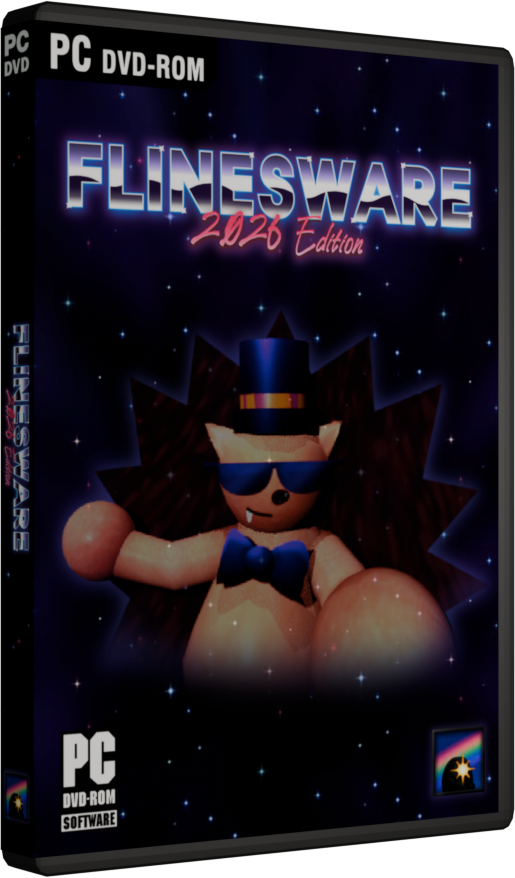
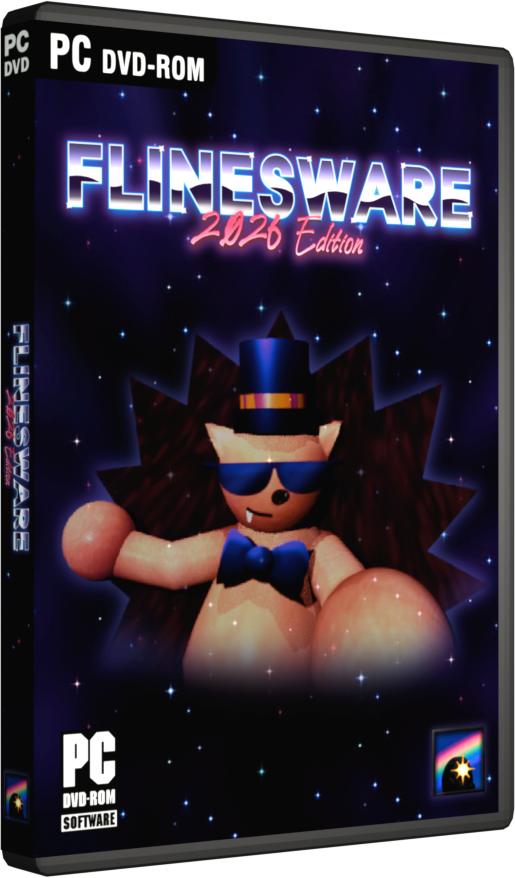
new blog WIP

diff --git a/blog/index.html b/blog/index.html
@@ -52,21 +52,20 @@
 			
 			.blog_img {
 				border: 2px solid #FFFFFF;
-				max-width: 350px;
+				max-width: 450px;
 			}
 			
 			.blog {
 				max-width: 500px;
 			}
 			
-			.flines_post {
-				padding-right: 12px;
-				padding-left: 12px;
-			}
-			
-			.faraway_post {
-				padding-right: 12px;
-				padding-left: 12px;
+			.unselectable {
+				-webkit-touch-callout: none;
+				-webkit-user-select: none;
+				-khtml-user-select: none;
+				-moz-user-select: none;
+				-ms-user-select: none;
+				user-select: none;
 			}
 		</style>
 	
@@ -198,12 +197,28 @@
 							<a href="/scripts/rss.xml"><button class="maya_button socials" style="margin: 16px; width: 300px">Add my RSS feed!</button></a>
 						</div>
 						
-						<hr class="solid" style="width: 62.5%; color: white; margin-top: 16px; margin-bottom: 16px;"><br>
-						<div id="funkyFeed" class="blog" style="width: 48.5%; float: left; border-right: 2px solid white; padding: 8px;">
+						<hr class="solid" style="width: 62.5%; color: white; margin-top: 16px; margin-bottom: 4px;"><br>
+						
+						<div style="margin-bottom: 8px;">
+							<b><font face="Times New Roman" size="3" style="color: white;">
+							▼ view posts from... ▼
+							</font></b><br>
+						
+							<button onclick="switchFeed(1)" class="maya_button socials" style="margin-top: 4px; margin-right: 16px; width: 120px">FLINES!</button>
+							<button onclick="switchFeed(2)" class="maya_button socials" style="margin-top: 4px; margin-right: 16px; width: 120px">FARAWAY!</button>
+							<button onclick="switchFeed(3)" class="maya_button socials" style="margin-top: 4px; width: 120px">NIHAO!</button>
+						</div><br>
+						
+						<!-- style="width: 48.5%; float: left; border-right: 2px solid white; padding: 8px;" and width: 48% float: right;-->
+						<div id="funkyFeed" class="blog" style="" >
 						
 						</div>
 						
-						<div id="funkyFeed2" class="blog" style="width: 48%; float: right;">
+						<div id="funkyFeed2" class="blog" style="" hidden>
+						
+						</div>
+						
+						<div id="funkyFeed3" class="blog" style="" hidden>
 						
 						</div>
 					</center>
@@ -277,6 +292,9 @@
 
 			var funkyFeed2 = document.getElementById("funkyFeed2");
 			var funkyPosts2 = [];
+			
+			var funkyFeed3 = document.getElementById("funkyFeed3");
+			var funkyPosts3 = [];
 		
 			//MY POSTS
 			fetch("/scripts/rss.xml").then(response => {
@@ -315,15 +333,19 @@
 					// Build formatted string
 					const formatted = `${hours}:${minutes}, ${day}/${month}/${year}`;
 					
-					var postTitle = '<b><font face="Times New Roman" size="6" style="color: white;">' + title.textContent + '</font></b><br>';
-					var postDescription = description.textContent.replace(/(0?[1-9]|[12][0-9]|3[01])[\/\-\.](0?[1-9]|1[012])[\/\-\.]\d{4}/, '').replace("[]>", "").replace("<p>", '<b><font face="Times New Roman" size="3" style="color: white; text-align: justify;">').replace("</p>", "</font></b>").replace("<img", "</div><img style='border: 2px solid #FFFFFF; max-width: 350px;' ");
+					// Post ID
+					var postID = title.textContent.replace(/\s/g,'').replace(/[.,\/#!$%\^&\*;:{}=\-_`~()™'"?]/g,"")
+					
+					
+					var postTitle = '<a onclick="switchPost(' + postID + ')"><u><b><font class="unselectable" face="Times New Roman" size="6" style="color: white;">' + title.textContent + '</font></b></u></a><br>';
+					var postDescription = description.textContent.replace(/(0?[1-9]|[12][0-9]|3[01])[\/\-\.](0?[1-9]|1[012])[\/\-\.]\d{4}/, '').replace("[]>", "").replace("<p>", '<b><font face="Times New Roman" size="3" style="color: white; text-align: justify;">').replace("</p>", "</font></b>").replace("<img", "<img style='border: 2px solid #FFFFFF; max-width: 450px;' ");
 					var postAuthorTime = '<p><center><b><font face="Times New Roman" size="3" style="color: white;">Posted by <a class="nav_btn" href="https://raflines.github.io"><img src="https://raflines.github.io/assets/favicon-16x16.png" style="vertical-align: middle;"/> FLINES</a> at ' + formatted + '</font></b></center></p>';
 					
-					funkyPosts.push(["<div class='flines_post'>" + postTitle + "</div><br><div class='flines_post' style='text-align: justify;'>" + postDescription + postAuthorTime + "</div>" + '<hr class="solid" style="width: 40%; color: white; margin-top: 32px; margin-bottom: 64px;">', date]);
+					funkyPosts.push(["<div style='width: 100%; height: 100%;'><div class='flines_post'>" + postTitle + "</div><br><div id='" + postID + "' class='flines_post' style='text-align: justify; background-color: black; border: solid 2px white; padding: 8px; width: 100%; height: 100%;' hidden>" + postDescription + "</div><div>" + postAuthorTime + '</div><hr class="solid" style="width: 40%; color: white; margin-top: 32px; margin-bottom: 64px;"></div>', date]);
 				}
 				
 				//FARAWAY POSTS
-				fetch("https://farawaydrip30.github.io/rss/all.xml").then(response => {
+				fetch("https://farawaydrip30.co.uk/rss/all.xml").then(response => {
 					return response.text();
 				}).then(xmlString => {
 					const xmlDocument = new DOMParser().parseFromString(xmlString, "text/xml");
@@ -359,33 +381,32 @@
 						// Build formatted string
 						const formatted = `${hours}:${minutes}, ${day}/${month}/${year}`;
 						
-						var postTitle = '<b><font face="Times New Roman" size="6" style="color: white;">' + title.textContent + '</font></b><br>';
-						var postDescription = description.textContent.replace(/(0?[1-9]|[12][0-9]|3[01])[\/\-\.](0?[1-9]|1[012])[\/\-\.]\d{4}/, '').replace("[]>", "").replace("<p>", '<b><font face="Times New Roman" size="3" style="color: white; text-align: justify;">').replace("</p>", "</font></b>").replace("<img", "</div><img style='border: 2px solid #FFFFFF; max-width: 350px;' ");
+						// Post ID
+						var postID = title.textContent.replace(/\s/g,'').replace(/[.,\/#!$%\^&\*;:{}=\-_`~()™'"?]/g,"")
+						
+						var postTitle = '<a onclick="switchPost(' + postID + ')"><u><b><font class="unselectable" face="Times New Roman" size="6" style="color: white;">' + title.textContent + '</font></b></u></a><br>';
+						var postDescription = description.textContent.replace(/(0?[1-9]|[12][0-9]|3[01])[\/\-\.](0?[1-9]|1[012])[\/\-\.]\d{4}/, '').replace("[]>", "").replace("<p>", '<b><font face="Times New Roman" size="3" style="color: white; text-align: justify;">').replace("</p>", "</font></b>").replace("<img", "<img style='border: 2px solid #FFFFFF; max-width: 450px;' ");
 						var postAuthorTime = '<p><center><b><font face="Times New Roman" size="3" style="color: white;">Posted by <a class="nav_btn" href="https://farawaydrip30.github.io"><img src="https://farawaydrip30.github.io/favicon.ico" style="width: 16px; vertical-align: middle;"/> FarawayDrip30</a> at ' + formatted + '</font></b></center></p>';
 						
-						funkyPosts2.push(["<div class='faraway_post'>" + postTitle + "</div><br><div class='faraway_post' style='text-align: justify;'>" + postDescription + postAuthorTime + "</div>" + '<hr class="solid" style="width: 40%; color: white; margin-top: 32px; margin-bottom: 64px;">', date]);
+						funkyPosts2.push(["<div style='width: 100%; height: 100%;'><div class='faraway_post'>" + postTitle + "</div><br><div id='" + postID + "' class='faraway_post' style='text-align: justify; background-color: black; border: solid 2px white; padding: 8px; width: 100%; height: 100%;' hidden>" + postDescription + "</div><div>" + postAuthorTime + '</div><hr class="solid" style="width: 40%; color: white; margin-top: 32px; margin-bottom: 64px;"></div>', date]);
 					}
 
 					updateFeed()
 				})
 				
 				//NIHAO POSTS
-				/* fetch("https://maybesomething.neocities.org/rss.xml", {
-					mode: 'no-cors'
-				}).then(response => {
+				fetch("https://maybesomething.neocities.org/rss.xml").then(response => {
 					return response.text();
 				}).then(xmlString => {
 					const xmlDocument = new DOMParser().parseFromString(xmlString, "text/xml");
 					
 					//HEADER
 					var channel = xmlDocument.getElementsByTagName("channel")[0]
-					console.log(xmlDocument)
-					console.log(channel)
 					
 					var title = channel.getElementsByTagName("title")[0]
 					var link = channel.getElementsByTagName("link")[0]
 					var description = channel.getElementsByTagName("description")[0]
-					//var language = channel.getElementsByTagName("description")[0]
+					var language = channel.getElementsByTagName("description")[0]
 					
 					//POSTS
 					var items = channel.getElementsByTagName("item")
@@ -410,16 +431,18 @@
 						// Build formatted string
 						const formatted = `${hours}:${minutes}, ${day}/${month}/${year}`;
 						
-						var postTitle = '<b><font face="Times New Roman" size="6" style="color: white;">' + title.textContent + '</font></b><br>';
-						var postDescription = description.textContent.replace(/(0?[1-9]|[12][0-9]|3[01])[\/\-\.](0?[1-9]|1[012])[\/\-\.]\d{4}/, '').replace("[]>", "").replace("<p>", '<b><font face="Times New Roman" size="3" style="color: white; text-align: justify;">').replace("</p>", "</font></b>").replace("<img", "</div><img style='border: 2px solid #FFFFFF; max-width: 500px;' ");
-						var postAuthorTime = '<p><center><b><font face="Times New Roman" size="3" style="color: white;">Posted by <a class="nav_btn" href="https://maybesomething.neocities.org/"><img src="https://maybesomething.neocities.org/favicon.ico" style="width: 16px; vertical-align: middle;"/> miao</a> at ' + formatted + '</font></b></center></p>';
+						// Post ID
+						var postID = title.textContent.replace(/\s/g,'').replace(/[.,\/#!$%\^&\*;:{}=\-_`~()™'"?]/g,"")
 						
-						funkyPosts.push(["<div>" + postTitle + "</div><br><div style='text-align: justify;'>" + postDescription + postAuthorTime + "</div>" + '<hr class="solid" style="width: 31.25%; color: white; margin-top: 32px; margin-bottom: 64px;">', date]);
+						var postTitle = '<a onclick="switchPost(' + postID + ')"><u><b><font class="unselectable" face="Times New Roman" size="6" style="color: white;">' + title.textContent + '</font></b></u></a><br>';
+						var postDescription = description.textContent.replace(/(0?[1-9]|[12][0-9]|3[01])[\/\-\.](0?[1-9]|1[012])[\/\-\.]\d{4}/, '').replace("[]>", "").replace("<p>", '<b><font face="Times New Roman" size="3" style="color: white; text-align: justify;">').replace("</p>", "</font></b>").replace("<img", "<img style='border: 2px solid #FFFFFF; max-width: 450px;' ");
+						var postAuthorTime = '<p><center><b><font face="Times New Roman" size="3" style="color: white;">Posted by <a class="nav_btn" href="https://farawaydrip30.github.io"><img src="https://farawaydrip30.github.io/favicon.ico" style="width: 16px; vertical-align: middle;"/> FarawayDrip30</a> at ' + formatted + '</font></b></center></p>';
+						
+						funkyPosts3.push(["<div style='width: 100%; height: 100%;'><div class='faraway_post'>" + postTitle + "</div><br><div id='" + postID + "' class='faraway_post' style='text-align: justify; background-color: black; border: solid 2px white; padding: 8px; width: 100%; height: 100%;' hidden>" + postDescription + "</div><div>" + postAuthorTime + '</div><hr class="solid" style="width: 40%; color: white; margin-top: 32px; margin-bottom: 64px;"></div>', date]);
 					}
-					
-					updateFeed();
-				})*/
-				
+
+					updateFeed()
+				})
 			})
 			
 			function updateFeed() {
@@ -443,6 +466,36 @@
 					funkyFeed2.innerHTML += funkyPosts2[i][0];
 					
 				}
+			}
+			
+			
+			function switchFeed(feed) {
+				switch (feed) {
+					case 1:
+						funkyFeed.removeAttribute("hidden");
+						funkyFeed2.setAttribute("hidden", "");
+						funkyFeed3.setAttribute("hidden", "");
+					break;
+					
+					case 2:
+						funkyFeed2.removeAttribute("hidden");
+						funkyFeed.setAttribute("hidden", "");
+						funkyFeed3.setAttribute("hidden", "");
+					break;
+					
+					case 3:
+						funkyFeed3.removeAttribute("hidden");
+						funkyFeed.setAttribute("hidden", "");
+						funkyFeed2.setAttribute("hidden", "");
+					break;
+				}
+			
+				//funkyFeed.hasAttribute("hidden") ? funkyFeed.removeAttribute("hidden") : funkyFeed.setAttribute("hidden", "");
+				//funkyFeed2.hasAttribute("hidden") ? funkyFeed2.removeAttribute("hidden") : funkyFeed2.setAttribute("hidden", "");
+			}
+			
+			function switchPost(postId) {
+				postId.hasAttribute("hidden") ? postId.removeAttribute("hidden") : postId.setAttribute("hidden", "");
 			}
 		</script>
 	</body>